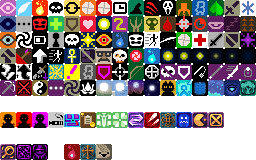
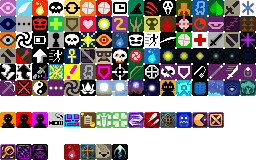
v0.9.4.8：弦的灵魂卷轴实装

Changed region(s): [[0.4375, 0.875, 0.5, 1.0]]

diff --git a/core/src/main/java/com/shatteredpixel/shatteredpixeldungeon/items/scrolls/extra/ScrollOfSoul.java b/core/src/main/java/com/shatteredpixel/shatteredpixeldungeon/items/scrolls/extra/ScrollOfSoul.java
@@ -1,0 +1,154 @@
+package com.shatteredpixel.shatteredpixeldungeon.items.scrolls.extra;
+
+import static com.shatteredpixel.shatteredpixeldungeon.Dungeon.hero;
+
+import com.shatteredpixel.shatteredpixeldungeon.actors.buffs.AllyBuff;
+import com.shatteredpixel.shatteredpixeldungeon.actors.buffs.Buff;
+import com.shatteredpixel.shatteredpixeldungeon.actors.buffs.Hunger;
+import com.shatteredpixel.shatteredpixeldungeon.actors.buffs.LostInventory;
+import com.shatteredpixel.shatteredpixeldungeon.actors.hero.Hero;
+import com.shatteredpixel.shatteredpixeldungeon.effects.Flare;
+import com.shatteredpixel.shatteredpixeldungeon.items.scrolls.Scroll;
+import com.shatteredpixel.shatteredpixeldungeon.messages.Messages;
+import com.shatteredpixel.shatteredpixeldungeon.sprites.ItemSpriteSheet;
+import com.shatteredpixel.shatteredpixeldungeon.ui.BuffIndicator;
+import com.watabou.utils.Bundle;
+
+public class ScrollOfSoul extends Scroll {
+
+    {
+        image = ItemSpriteSheet.SOUL_SCROLL;
+        unique = true;
+    }
+
+    @Override
+    public boolean isIdentified() {
+        return true;
+    }
+
+    @Override
+    public boolean isKnown() {
+        return true;
+    }
+
+    @Override
+    public void doRead() {
+        detach(curUser.belongings.backpack);
+        new Flare( 5, 32 ).color( 0x4B9AA1, true ).show( curUser.sprite, 2f );
+        Buff.affect(hero, UpgradeSoul.class).set((301), 1);
+        identify();
+        readAnimation();
+    }
+
+    public static class UpgradeSoul extends Buff {
+
+        {
+            type = buffType.POSITIVE;
+        }
+
+        private int level = 0;
+        private int interval = 1;
+        private int carriedTurns = 0;
+        private static final int DECAY_CYCLE = 20;
+
+        public int attackDamageMulti;
+        public int shieldDamageMulti;
+
+        @Override
+        public boolean act() {
+            if (target.isAlive()) {
+                spend( interval );
+                carriedTurns++;
+
+                if (carriedTurns >= DECAY_CYCLE) {
+                    level = Math.max(0, level - 1);
+                    carriedTurns = 0;
+                }
+
+                for (Buff b : target.buffs()) {
+                    if (b.type == Buff.buffType.NEGATIVE
+                            && !(b instanceof AllyBuff)
+                            && !(b instanceof LostInventory)
+                            && !(b instanceof Hunger) ) {
+                        b.detach();
+                    }
+                }
+
+                if (--level <= 0) {
+                    detach();
+                }
+            } else {
+                detach();
+            }
+            return true;
+        }
+
+        public int level() {
+            return level;
+        }
+
+        public void set( int value, int time ) {
+            if (level <= value) {
+                level = value;
+                interval = time;
+                spend(time - cooldown() - 1);
+                carriedTurns = 0;
+            }
+        }
+
+        @Override
+        public int icon() {
+            return BuffIndicator.UPGRADE_SOUL;
+        }
+
+        @Override
+        public float iconFadePercent() {
+            if (target instanceof Hero){
+                float max = ((Hero) target).lvl;
+                return Math.max(0, (max-level)/max);
+            }
+            return 0;
+        }
+
+        @Override
+        public String iconTextDisplay() {
+            return Integer.toString(level);
+        }
+
+        @Override
+        public String desc() {
+            return Messages.get(this, "desc", level,
+                   attackDamageMulti,
+                    shieldDamageMulti
+            );
+        }
+
+        private static final String LEVEL	    = "level";
+        private static final String INTERVAL    = "interval";
+        private static final String CARRIED_TURNS = "carriedTurns";
+        private static final String DG    = "dg";
+        private static final String SG    = "sg";
+
+        @Override
+        public void storeInBundle( Bundle bundle ) {
+            super.storeInBundle( bundle );
+            bundle.put( INTERVAL, interval );
+            bundle.put( LEVEL, level );
+            bundle.put(CARRIED_TURNS, carriedTurns);
+            bundle.put(DG, (float) attackDamageMulti);
+            bundle.put(SG, (float) shieldDamageMulti);
+        }
+
+        @Override
+        public void restoreFromBundle( Bundle bundle ) {
+            super.restoreFromBundle( bundle );
+            interval = bundle.getInt( INTERVAL );
+            level = bundle.getInt( LEVEL );
+            carriedTurns = bundle.getInt(CARRIED_TURNS);
+            attackDamageMulti = bundle.getInt(DG);
+            shieldDamageMulti = bundle.getInt(SG);
+        }
+    }
+
+
+}

diff --git a/core/src/main/java/com/shatteredpixel/shatteredpixeldungeon/actors/mobs/npcs/extra/ArchettoWeightLess.java b/core/src/main/java/com/shatteredpixel/shatteredpixeldungeon/actors/mobs/npcs/extra/ArchettoWeightLess.java
@@ -28,7 +28,6 @@ import com.shatteredpixel.shatteredpixeldungeon.items.TengusMask;
 import com.shatteredpixel.shatteredpixeldungeon.items.bags.Bag;
 import com.shatteredpixel.shatteredpixeldungeon.items.bags.ScrollHolder;
 import com.shatteredpixel.shatteredpixeldungeon.items.potions.PotionOfHealing;
-import com.shatteredpixel.shatteredpixeldungeon.items.props.Prop;
 import com.shatteredpixel.shatteredpixeldungeon.items.quest.BloodRedFlower;
 import com.shatteredpixel.shatteredpixeldungeon.items.quest.DeepRedFlower;
 import com.shatteredpixel.shatteredpixeldungeon.items.quest.TimeFlower;
@@ -39,6 +38,7 @@ import com.shatteredpixel.shatteredpixeldungeon.items.scrolls.exotic.ScrollOfDiv
 import com.shatteredpixel.shatteredpixeldungeon.items.scrolls.exotic.ScrollOfEnchantment;
 import com.shatteredpixel.shatteredpixeldungeon.items.scrolls.exotic.ScrollOfGolems;
 import com.shatteredpixel.shatteredpixeldungeon.items.scrolls.exotic.ScrollOfRoseShiled;
+import com.shatteredpixel.shatteredpixeldungeon.items.scrolls.extra.ScrollOfSoul;
 import com.shatteredpixel.shatteredpixeldungeon.items.wands.WandOfBlastWave;
 import com.shatteredpixel.shatteredpixeldungeon.levels.Terrain;
 import com.shatteredpixel.shatteredpixeldungeon.levels.UnlessEndFlowerLevel;
@@ -54,7 +54,6 @@ import com.watabou.noosa.Game;
 import com.watabou.noosa.audio.Sample;
 import com.watabou.utils.Bundle;
 import com.watabou.utils.Callback;
-import com.watabou.utils.Random;
 
 import java.util.List;
 
@@ -238,14 +237,9 @@ public class ArchettoWeightLess extends FiveYearsNPC {
                                            @Override
                                            protected void onSelect(int index) {
                                                if (index==0){
-                                                   if(Random.Float() > 0.7f){
-                                                       Prop p1 = Prop.randomPropA(1,true);
-                                                       Dungeon.level.drop(p1,hero.pos).sprite.drop();
-                                                   } else {
-                                                       Prop p2 = Prop.randomPropA(2,true);
-                                                       Dungeon.level.drop(p2,hero.pos).sprite.drop();
-                                                   }
+                                                   Dungeon.level.drop(new ScrollOfSoul(),hero.pos);
                                                    yell(Messages.get(ArchettoWeightLess.class,"props"));
+                                                   item.detach(hero.belongings.backpack);
                                                    rd = false;
                                                } else if(index == 1){
                                                    yell("………………");

diff --git a/core/src/main/java/com/shatteredpixel/shatteredpixeldungeon/actors/hero/Hero.java b/core/src/main/java/com/shatteredpixel/shatteredpixeldungeon/actors/hero/Hero.java
@@ -254,6 +254,7 @@ import com.shatteredpixel.shatteredpixeldungeon.items.scrolls.Scroll;
 import com.shatteredpixel.shatteredpixeldungeon.items.scrolls.ScrollOfMagicMapping;
 import com.shatteredpixel.shatteredpixeldungeon.items.scrolls.ScrollOfTeleportation;
 import com.shatteredpixel.shatteredpixeldungeon.items.scrolls.exotic.ScrollOfChallenge;
+import com.shatteredpixel.shatteredpixeldungeon.items.scrolls.extra.ScrollOfSoul;
 import com.shatteredpixel.shatteredpixeldungeon.items.scrolls.extra.ScrollOfTeleTation;
 import com.shatteredpixel.shatteredpixeldungeon.items.trinkets.ThirteenLeafClover;
 import com.shatteredpixel.shatteredpixeldungeon.items.wands.Wand;
@@ -1103,11 +1104,17 @@ public class Hero extends Char {
 			speed += CustomPlayer.baseSpeed;
 		}
 
+
+
 		speed += super.speed();
 
 		speed *= RingOfHaste.speedMultiplier(this);
 
 		if (buff(BlessQinyue.class) != null) speed *= 1.25f;
+
+		if(buff(ScrollOfSoul.UpgradeSoul.class)!=null){
+			speed *= 2;
+		}
 
 		//提升20%移速
 		MIME.GOLD_THREE getSpeed = hero.belongings.getItem(MIME.GOLD_THREE.class);
@@ -1212,6 +1219,12 @@ public class Hero extends Char {
 		}
 
 		float delay = 1f;
+
+
+		if(buff(ScrollOfSoul.UpgradeSoul.class)!=null){
+			delay /= 2;
+		}
+
 		if( Dungeon.isDLC(Conducts.Conduct.DEV) && CustomPlayer.overrideGame ){
 			if(!CustomPlayer.shouldOverride)
 				delay = CustomPlayer.baseAttackDelay;
@@ -2547,6 +2560,13 @@ public class Hero extends Char {
 			if (buff(MonkEnergy.MonkAbility.Meditate.MeditateResistance.class) != null){
 				dmg *= 0.2f;
 			}
+		}
+
+		ScrollOfSoul.UpgradeSoul upgradeSoul = hero.buff(ScrollOfSoul.UpgradeSoul.class);
+		if(upgradeSoul != null){
+			float atkMul = 1f + upgradeSoul.shieldDamageMulti / 100f;
+			atkMul = Math.min(0.1f, atkMul);
+			dmg *= atkMul;
 		}
 
 		CapeOfThorns.Thorns thorns = buff( CapeOfThorns.Thorns.class );

diff --git a/core/src/main/java/com/shatteredpixel/shatteredpixeldungeon/actors/mobs/Mob.java b/core/src/main/java/com/shatteredpixel/shatteredpixeldungeon/actors/mobs/Mob.java
@@ -101,6 +101,7 @@ import com.shatteredpixel.shatteredpixeldungeon.items.props.NoteOfBzmdr;
 import com.shatteredpixel.shatteredpixeldungeon.items.rings.Ring;
 import com.shatteredpixel.shatteredpixeldungeon.items.rings.RingOfWealth;
 import com.shatteredpixel.shatteredpixeldungeon.items.scrolls.exotic.ExoticScroll;
+import com.shatteredpixel.shatteredpixeldungeon.items.scrolls.extra.ScrollOfSoul;
 import com.shatteredpixel.shatteredpixeldungeon.items.stones.StoneOfAggression;
 import com.shatteredpixel.shatteredpixeldungeon.items.trinkets.ExoticCrystals;
 import com.shatteredpixel.shatteredpixeldungeon.items.trinkets.ShardOfOblivion;
@@ -1201,6 +1202,13 @@ public abstract class Mob extends Char {
 			}
 		}
 
+		ScrollOfSoul.UpgradeSoul upgradeSoul = hero.buff(ScrollOfSoul.UpgradeSoul.class);
+		if(upgradeSoul != null){
+			float atkMul = 1f + upgradeSoul.attackDamageMulti / 100f;
+			atkMul = Math.min(1.9f, atkMul);
+			dmg *= atkMul;
+		}
+
 		if (state == SLEEPING) {
 			state = WANDERING;
 		}
@@ -1246,6 +1254,13 @@ public abstract class Mob extends Char {
             if (alignment == Alignment.ENEMY) {
 				Statistics.enemiesSlain++;
 				Badges.validateMonstersSlain();
+
+				ScrollOfSoul.UpgradeSoul upgradeSoul = hero.buff(ScrollOfSoul.UpgradeSoul.class);
+				if(upgradeSoul != null){
+					upgradeSoul.shieldDamageMulti += 2;
+					upgradeSoul.attackDamageMulti += 2;
+				}
+
 				Statistics.qualifiedForNoKilling = false;
 				Bestiary.setSeen(getClass());
 				Bestiary.countEncounter(getClass());

diff --git a/core/src/main/java/com/shatteredpixel/shatteredpixeldungeon/custom/testmode/SpawnMisc.java b/core/src/main/java/com/shatteredpixel/shatteredpixeldungeon/custom/testmode/SpawnMisc.java
@@ -121,6 +121,7 @@ import com.shatteredpixel.shatteredpixeldungeon.items.scrolls.ScrollOfFlameCurse
 import com.shatteredpixel.shatteredpixeldungeon.items.scrolls.exotic.ExoticScroll;
 import com.shatteredpixel.shatteredpixeldungeon.items.scrolls.exotic.ScrollOfGolems;
 import com.shatteredpixel.shatteredpixeldungeon.items.scrolls.exotic.ScrollOfRoseShiled;
+import com.shatteredpixel.shatteredpixeldungeon.items.scrolls.extra.ScrollOfSoul;
 import com.shatteredpixel.shatteredpixeldungeon.items.spells.Alchemize;
 import com.shatteredpixel.shatteredpixeldungeon.items.spells.BeaconOfReturning;
 import com.shatteredpixel.shatteredpixeldungeon.items.spells.CurseInfusion;
@@ -231,6 +232,7 @@ public class SpawnMisc extends TestItem {
             scrollList.add(ScrollOfRoseShiled.class);
             scrollList.add(ScrollOfFlameCursed.class);
             scrollList.add(ScrollOfGolems.class);
+            scrollList.add(ScrollOfSoul.class);
         }
 
         if(exoticScrollList.isEmpty()) {

diff --git a/core/src/main/java/com/shatteredpixel/shatteredpixeldungeon/actors/buffs/AllyBuff.java b/core/src/main/java/com/shatteredpixel/shatteredpixeldungeon/actors/buffs/AllyBuff.java
@@ -29,6 +29,7 @@ import com.shatteredpixel.shatteredpixeldungeon.actors.hero.HeroSubClass;
 import com.shatteredpixel.shatteredpixeldungeon.actors.mobs.Mimic;
 import com.shatteredpixel.shatteredpixeldungeon.actors.mobs.Mob;
 import com.shatteredpixel.shatteredpixeldungeon.effects.FloatingText;
+import com.shatteredpixel.shatteredpixeldungeon.items.scrolls.extra.ScrollOfSoul;
 import com.shatteredpixel.shatteredpixeldungeon.journal.Bestiary;
 import com.shatteredpixel.shatteredpixeldungeon.sprites.CharSprite;
 
@@ -60,6 +61,13 @@ public abstract class AllyBuff extends Buff{
 
 			Statistics.enemiesSlain++;
 			Badges.validateMonstersSlain();
+
+			ScrollOfSoul.UpgradeSoul upgradeSoul = hero.buff(ScrollOfSoul.UpgradeSoul.class);
+			if(upgradeSoul != null){
+				upgradeSoul.shieldDamageMulti += 2;
+				upgradeSoul.attackDamageMulti += 2;
+			}
+
 			Statistics.qualifiedForNoKilling = false;
 			Bestiary.setSeen(enemy.getClass());
 			Bestiary.countEncounter(enemy.getClass());

diff --git a/core/src/main/java/com/shatteredpixel/shatteredpixeldungeon/sprites/ItemSpriteSheet.java b/core/src/main/java/com/shatteredpixel/shatteredpixeldungeon/sprites/ItemSpriteSheet.java
@@ -1383,6 +1383,8 @@ public class ItemSpriteSheet {
 
     public static final int MOTO_BREW                                       = RITUAL_SWORD + 13;
 
+    public static final int SOUL_SCROLL                                     = RITUAL_SWORD + 15;
+
     static{
         assignItemRect(RITUAL_SWORD,       13, 13);
         assignItemRect(TREE_LIST,          14, 13);
@@ -1392,6 +1394,8 @@ public class ItemSpriteSheet {
 
         assignItemRect(BZMDR_GIFT,          12,15);
         assignItemRect(MOTO_BREW,          12,16);
+
+        assignItemRect(SOUL_SCROLL,          16,14);
     }
 
     private static final int PROP1  = xy(9,46);

diff --git a/core/src/main/java/com/shatteredpixel/shatteredpixeldungeon/ui/BuffIndicator.java b/core/src/main/java/com/shatteredpixel/shatteredpixeldungeon/ui/BuffIndicator.java
@@ -164,6 +164,8 @@ public class BuffIndicator extends Component {
 	public static final int UNLESS = 149;
 	public static final int ANCIENT_SURVEY = 150;
 
+	public static final int UPGRADE_SOUL = 151;
+
 	public static final int SIZE_SMALL = 7;
 	public static final int SIZE_LARGE = 16;
 	private static BuffIndicator bossInstance;
